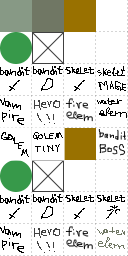
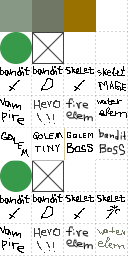
Added GolemBoss

Changed region(s): [[0.5, 0.5, 0.75, 0.625]]

diff --git a/src/core/model/gameplay/gameobjects/ai/GolemBossAI.java b/src/core/model/gameplay/gameobjects/ai/GolemBossAI.java
@@ -1,0 +1,134 @@
+package core.model.gameplay.gameobjects.ai;
+
+import core.model.gameplay.items.ItemInstanceKind;
+import core.model.gameplay.skills.BulletShot;
+import core.model.gameplay.skills.Skill;
+import org.newdawn.slick.geom.Point;
+
+import core.model.Timer;
+import core.model.gameplay.gameobjects.Hero;
+import core.model.gameplay.skills.SkillInstanceKind;
+import org.newdawn.slick.geom.Vector2f;
+
+import java.util.Arrays;
+
+public class GolemBossAI extends BotAI {
+
+    private enum GolemAIState implements BotAIState {
+        STAND, WALK, PURSUE, ATTACK, STRAFE, RETREAT
+    }
+
+    @Override
+    protected void init() {
+        final int standTime = 1000;
+        final int pursueDistance = 300;
+        final int attackDistance = (int) (owner.getMask().getBoundingCircleRadius() +
+                Hero.getInstance().getMask().getBoundingCircleRadius() + 5);
+        final int retreatDistance = 30;
+        final int strafeTime = 250;
+        final double attackProbability = 0.7;
+        final double strafeProbability = 0.7;
+        currentState = GolemAIState.STAND;
+        stateMap.put(GolemAIState.STAND, new AIState() {
+            private Timer timer;
+            public void enter()           { timer = new Timer(standTime); }
+            public void run(int delta)    { owner.stand(); }
+            public void update(int delta) { timer.update(delta);
+                if (getDistanceToHero() < pursueDistance && seeTarget(Hero.getInstance())) { currentState = GolemAIState.PURSUE; return; }
+                if (timer.isTime()) currentState = GolemAIState.WALK; }
+        });
+        stateMap.put(GolemAIState.WALK, new AIState() {
+            private Point target;
+            public void enter()           { target = getRandomTarget(); }
+            public void run(int delta)    { followTarget(target); }
+            public void update(int delta) { if (getDistanceToHero() < pursueDistance && seeTarget(Hero.getInstance())) { currentState = GolemAIState.PURSUE; return; }
+                if (getDistanceToTarget(target) < 2) currentState = GolemAIState.STAND; }
+        });
+        stateMap.put(GolemAIState.PURSUE, new AIState() {
+            private boolean isFollowing;
+            private double previousHP;
+            public void enter()           { isFollowing = true; previousHP = owner.getAttribute().getCurrentHP(); }
+            public void run(int delta)    { isFollowing = followHero(); checkThornSpawn(owner.getAttribute().getCurrentHP() < previousHP); previousHP = owner.getAttribute().getCurrentHP(); attackHeroWithThrowStone(); }
+            public void update(int delta) { if (getDistanceToHero() >= pursueDistance || !isFollowing) { currentState = GolemAIState.STAND; return; }
+                if (getDistanceToHero() < attackDistance && Math.random() < attackProbability) { currentState = GolemAIState.ATTACK; return; }
+                if (getDistanceToHero() < attackDistance && Math.random() < strafeProbability) { currentState = GolemAIState.STRAFE; return; }
+                if (getDistanceToHero() < attackDistance)  currentState = GolemAIState.RETREAT;  }
+        });
+        stateMap.put(GolemAIState.ATTACK, new AIState() {
+            private double previousHP;
+            public void enter()           { previousHP = owner.getAttribute().getCurrentHP(); }
+            public void run(int delta)    { attackHeroWithPunch(); checkThornSpawn(owner.getAttribute().getCurrentHP() < previousHP); previousHP = owner.getAttribute().getCurrentHP(); }
+            public void update(int delta) { if (getDistanceToHero() >= attackDistance && seeTarget(Hero.getInstance())) { currentState = GolemAIState.PURSUE; return; }
+                if (Math.random() < strafeProbability) { currentState = GolemAIState.STRAFE; return; }
+                currentState = GolemAIState.RETREAT; }
+        });
+        stateMap.put(GolemAIState.STRAFE, new AIState() {
+            private Timer timer;
+            private boolean strafeDirection;
+            private double previousHP;
+            public void enter()           { timer = new Timer(strafeTime); strafeDirection = Math.random() < 0.5; previousHP = owner.getAttribute().getCurrentHP(); }
+            public void run(int delta)    { strafe(strafeDirection); checkThornSpawn(owner.getAttribute().getCurrentHP() < previousHP); previousHP = owner.getAttribute().getCurrentHP(); }
+            public void update(int delta) { timer.update(delta);
+                if (timer.isTime() && getDistanceToHero() >= attackDistance && seeTarget(Hero.getInstance())) { currentState = GolemAIState.PURSUE; return; }
+                if (timer.isTime() && Math.random() < attackProbability) { currentState = GolemAIState.ATTACK; return; }
+                if (timer.isTime()) currentState = GolemAIState.RETREAT; }
+        });
+        stateMap.put(GolemAIState.RETREAT, new AIState() {
+            private double currentRetreatDistance;
+            private double previousHP;
+            public void enter()           { currentRetreatDistance = 0; previousHP = owner.getAttribute().getCurrentHP(); }
+            public void run(int delta)    { currentRetreatDistance += retreat(delta); checkThornSpawn(owner.getAttribute().getCurrentHP() < previousHP); previousHP = owner.getAttribute().getCurrentHP(); }
+            public void update(int delta) { if (currentRetreatDistance >= retreatDistance) currentState = GolemAIState.PURSUE; }
+        });
+    }
+
+    private void attackHeroWithPunch() {
+        owner.stand();
+        owner.startCastSkill(SkillInstanceKind.STRONG_PUNCH);
+    }
+
+    private void strafe(boolean strafeDirection) {
+        Hero hero = Hero.getInstance();
+        owner.setDirection(Math.atan2(hero.getY() - owner.getY(), hero.getX() - owner.getX()));
+        owner.move(Math.PI / 2 * (strafeDirection ? 1 : -1));
+    }
+
+    private double retreat(int delta) {
+        Hero hero = Hero.getInstance();
+        owner.setDirection(Math.atan2(hero.getY() - owner.getY(), hero.getX() - owner.getX()));
+        owner.move(Math.PI);
+        return owner.getAttribute().getCurrentSpeed() * delta;
+    }
+
+    private void checkThornSpawn(boolean wasAttacked) {
+        if (wasAttacked) {
+            owner.startCastSkill(SkillInstanceKind.STRONG_THORN);
+        }
+    }
+
+    private void attackHeroWithThrowStone() {
+        if (owner.canStartCast(owner.getSkillByKind(SkillInstanceKind.THROW_STONE)) && seeTarget(Hero.getInstance())) {
+            owner.stand();
+            owner.setDirection(getPredictedDirection(owner.getSkillByKind(SkillInstanceKind.THROW_STONE)));
+            owner.startCastSkill(SkillInstanceKind.THROW_STONE);
+        }
+    }
+
+    private double getPredictedDirection(Skill skill) {
+        Vector2f v = new Vector2f((float) Hero.getInstance().getX() - (float)owner.getX(),
+                (float)Hero.getInstance().getY() - (float)owner.getY());
+        double angleToTarget = v.getTheta() / 180 * Math.PI;
+        double targetSpeed = Hero.getInstance().getAttribute().getCurrentSpeed();
+        double targetDirection = Hero.getInstance().getDirection() + Hero.getInstance().getRelativeDirection();
+        double bulletSpeed = ((BulletShot) skill).getBulletSpeed();
+
+        if (targetSpeed > 0) {
+            double alphaAngle = (Math.PI - targetDirection) + angleToTarget;
+            double neededOffsetAngle = Math.asin(Math.sin(alphaAngle) * targetSpeed / bulletSpeed);
+            return angleToTarget + neededOffsetAngle;
+        } else {
+            return angleToTarget;
+        }
+    }
+
+}

diff --git a/src/core/model/gameplay/skills/BulletShot.java b/src/core/model/gameplay/skills/BulletShot.java
@@ -40,6 +40,8 @@ public class BulletShot extends Skill {
                         bulletSpeed, pAttack, mAttack, distance, GameObjInstanceKind.FIREBALL));
                 break;
             case THORN:
+            case WEAK_THORN:
+            case STRONG_THORN:
                 int numberOfThorns = 4;
                 for (int i = 0; i < numberOfThorns; ++i) {
                     double currentDirection = owner.getDirection() + 2 * Math.PI / numberOfThorns * i;
@@ -50,16 +52,9 @@ public class BulletShot extends Skill {
                             bulletSpeed, pAttack, mAttack, distance, GameObjInstanceKind.THORN));
                 }
                 break;
-            case WEAK_THORN:
-                int numberOfWeakThorns = 4;
-                for (int i = 0; i < numberOfWeakThorns; ++i) {
-                    double currentDirection = owner.getDirection() + 2 * Math.PI / numberOfWeakThorns * i;
-                    double lengthDirX = MathAdv.lengthDirX(currentDirection, owner.getMask().getBoundingCircleRadius());
-                    double lengthDirY = MathAdv.lengthDirY(currentDirection, owner.getMask().getBoundingCircleRadius());
-                    World.getInstance().getGameObjectToAddList().add(new core.model.gameplay.gameobjects.Bullet(owner,
-                            owner.getX() + lengthDirX, owner.getY() + lengthDirY, currentDirection,
-                            bulletSpeed, pAttack, mAttack, distance, GameObjInstanceKind.THORN));
-                }
+            case THROW_STONE:
+                World.getInstance().getGameObjectToAddList().add(new core.model.gameplay.gameobjects.Bullet(owner, owner.getX(), owner.getY(), owner.getDirection(),
+                        bulletSpeed, pAttack, mAttack, distance, GameObjInstanceKind.STONE));
                 break;
         }
     }

diff --git a/src/core/view/gameplay/GamePlayView.java b/src/core/view/gameplay/GamePlayView.java
@@ -67,6 +67,9 @@ public class GamePlayView {
                 case GOLEMTINY:
                     gameObjectViewList.add(new GolemTinyView(gameObject));
                     break;
+                case GOLEMBOSS:
+                    gameObjectViewList.add(new GolemBossView(gameObject));
+                    break;
                 case VAMPIRE:
                     gameObjectViewList.add(new VampireView(gameObject));
                     break;
@@ -164,6 +167,9 @@ public class GamePlayView {
                 case THORN:
                     gameObjectViewList.add(new ThornView(gameObject));
                     break;
+                case STONE:
+                    gameObjectViewList.add(new StoneView(gameObject));
+                    break;
                 case BANDITARCHER:
                     gameObjectViewList.add(new BanditArcherView(gameObject));
                     break;
@@ -187,6 +193,9 @@ public class GamePlayView {
                     break;
                 case GOLEMTINY:
                     gameObjectViewList.add(new GolemTinyView(gameObject));
+                    break;
+                case GOLEMBOSS:
+                    gameObjectViewList.add(new GolemBossView(gameObject));
                     break;
             }
         }

diff --git a/src/core/model/gameplay/World.java b/src/core/model/gameplay/World.java
@@ -124,6 +124,11 @@ public class World {
                             tiledMap.getTileHeight() * j + tiledMap.getTileHeight() / 2, 0, GameObjInstanceKind.GOLEMTINY,
                             new GolemTinyAI());
                     gameObjectList.add(bot);
+                } else if (tileObjectName.equals("golemboss")) {
+                    Bot bot = new Bot(tiledMap.getTileWidth() * i + tiledMap.getTileWidth() / 2,
+                            tiledMap.getTileHeight() * j + tiledMap.getTileHeight() / 2, 0, GameObjInstanceKind.GOLEMBOSS,
+                            new GolemBossAI());
+                    gameObjectList.add(bot);
                 }
             }
         }

diff --git a/src/core/view/gameplay/unit/GolemBossView.java b/src/core/view/gameplay/unit/GolemBossView.java
@@ -1,0 +1,22 @@
+package core.view.gameplay.unit;
+
+import core.model.gameplay.gameobjects.GameObject;
+import org.newdawn.slick.Graphics;
+import org.newdawn.slick.SlickException;
+
+import core.resourcemanager.ResourceManager;
+import core.view.gameplay.Camera;
+
+public class GolemBossView extends UnitView {
+
+    public GolemBossView(GameObject golem) throws SlickException {
+        super(golem);
+        animation = ResourceManager.getInstance().getAnimation("golem_boss");
+    }
+
+    @Override
+    public void render(Graphics g, Camera camera) throws SlickException {
+        super.render(g, camera);
+    }
+
+}

diff --git a/src/core/model/gameplay/skills/SkillInstanceKind.java b/src/core/model/gameplay/skills/SkillInstanceKind.java
@@ -2,8 +2,8 @@ package core.model.gameplay.skills;
 
 public enum SkillInstanceKind {
 
-    SWORD_ATTACK, STRONG_SWORD_ATTACK, STAFF_ATTACK, PUNCH, WEAK_PUNCH, // Area damage
-    BOW_SHOT, FIREBALL, THORN, WEAK_THORN, // BulletShot
+    SWORD_ATTACK, STRONG_SWORD_ATTACK, STAFF_ATTACK, PUNCH, WEAK_PUNCH, STRONG_PUNCH, // Area damage
+    BOW_SHOT, FIREBALL, THORN, WEAK_THORN, STRONG_THORN, THROW_STONE,  // BulletShot
     HEAL, // Regen
     WIND_BOW, // Skill improver
     BLINK, // Blink skill

diff --git a/src/core/view/gameplay/gameobjectsolid/StoneView.java b/src/core/view/gameplay/gameobjectsolid/StoneView.java
@@ -1,0 +1,13 @@
+package core.view.gameplay.gameobjectsolid;
+
+import core.model.gameplay.gameobjects.GameObject;
+import core.resourcemanager.ResourceManager;
+
+public class StoneView extends GameObjectSolidView {
+
+    public StoneView(GameObject stone) {
+        super(stone);
+        animation = ResourceManager.getInstance().getAnimation("stone");
+    }
+
+}

diff --git a/src/core/model/gameplay/gameobjects/GameObjInstanceKind.java b/src/core/model/gameplay/gameobjects/GameObjInstanceKind.java
@@ -4,9 +4,9 @@ public enum GameObjInstanceKind {
 
     LOOT,
     WALL, TREE, ICEWALL,
-    ARROW, FIREBALL, THORN,
+    ARROW, FIREBALL, THORN, STONE,
     BANDIT, BANDITARCHER, BANDITBOSS,
-    GOLEM, GOLEMTINY,
+    GOLEM, GOLEMTINY, GOLEMBOSS,
     SKELETON, SKELETONMAGE,
     FIREELEMENTAL, WATERELEMENTAL,
     VAMPIRE,
